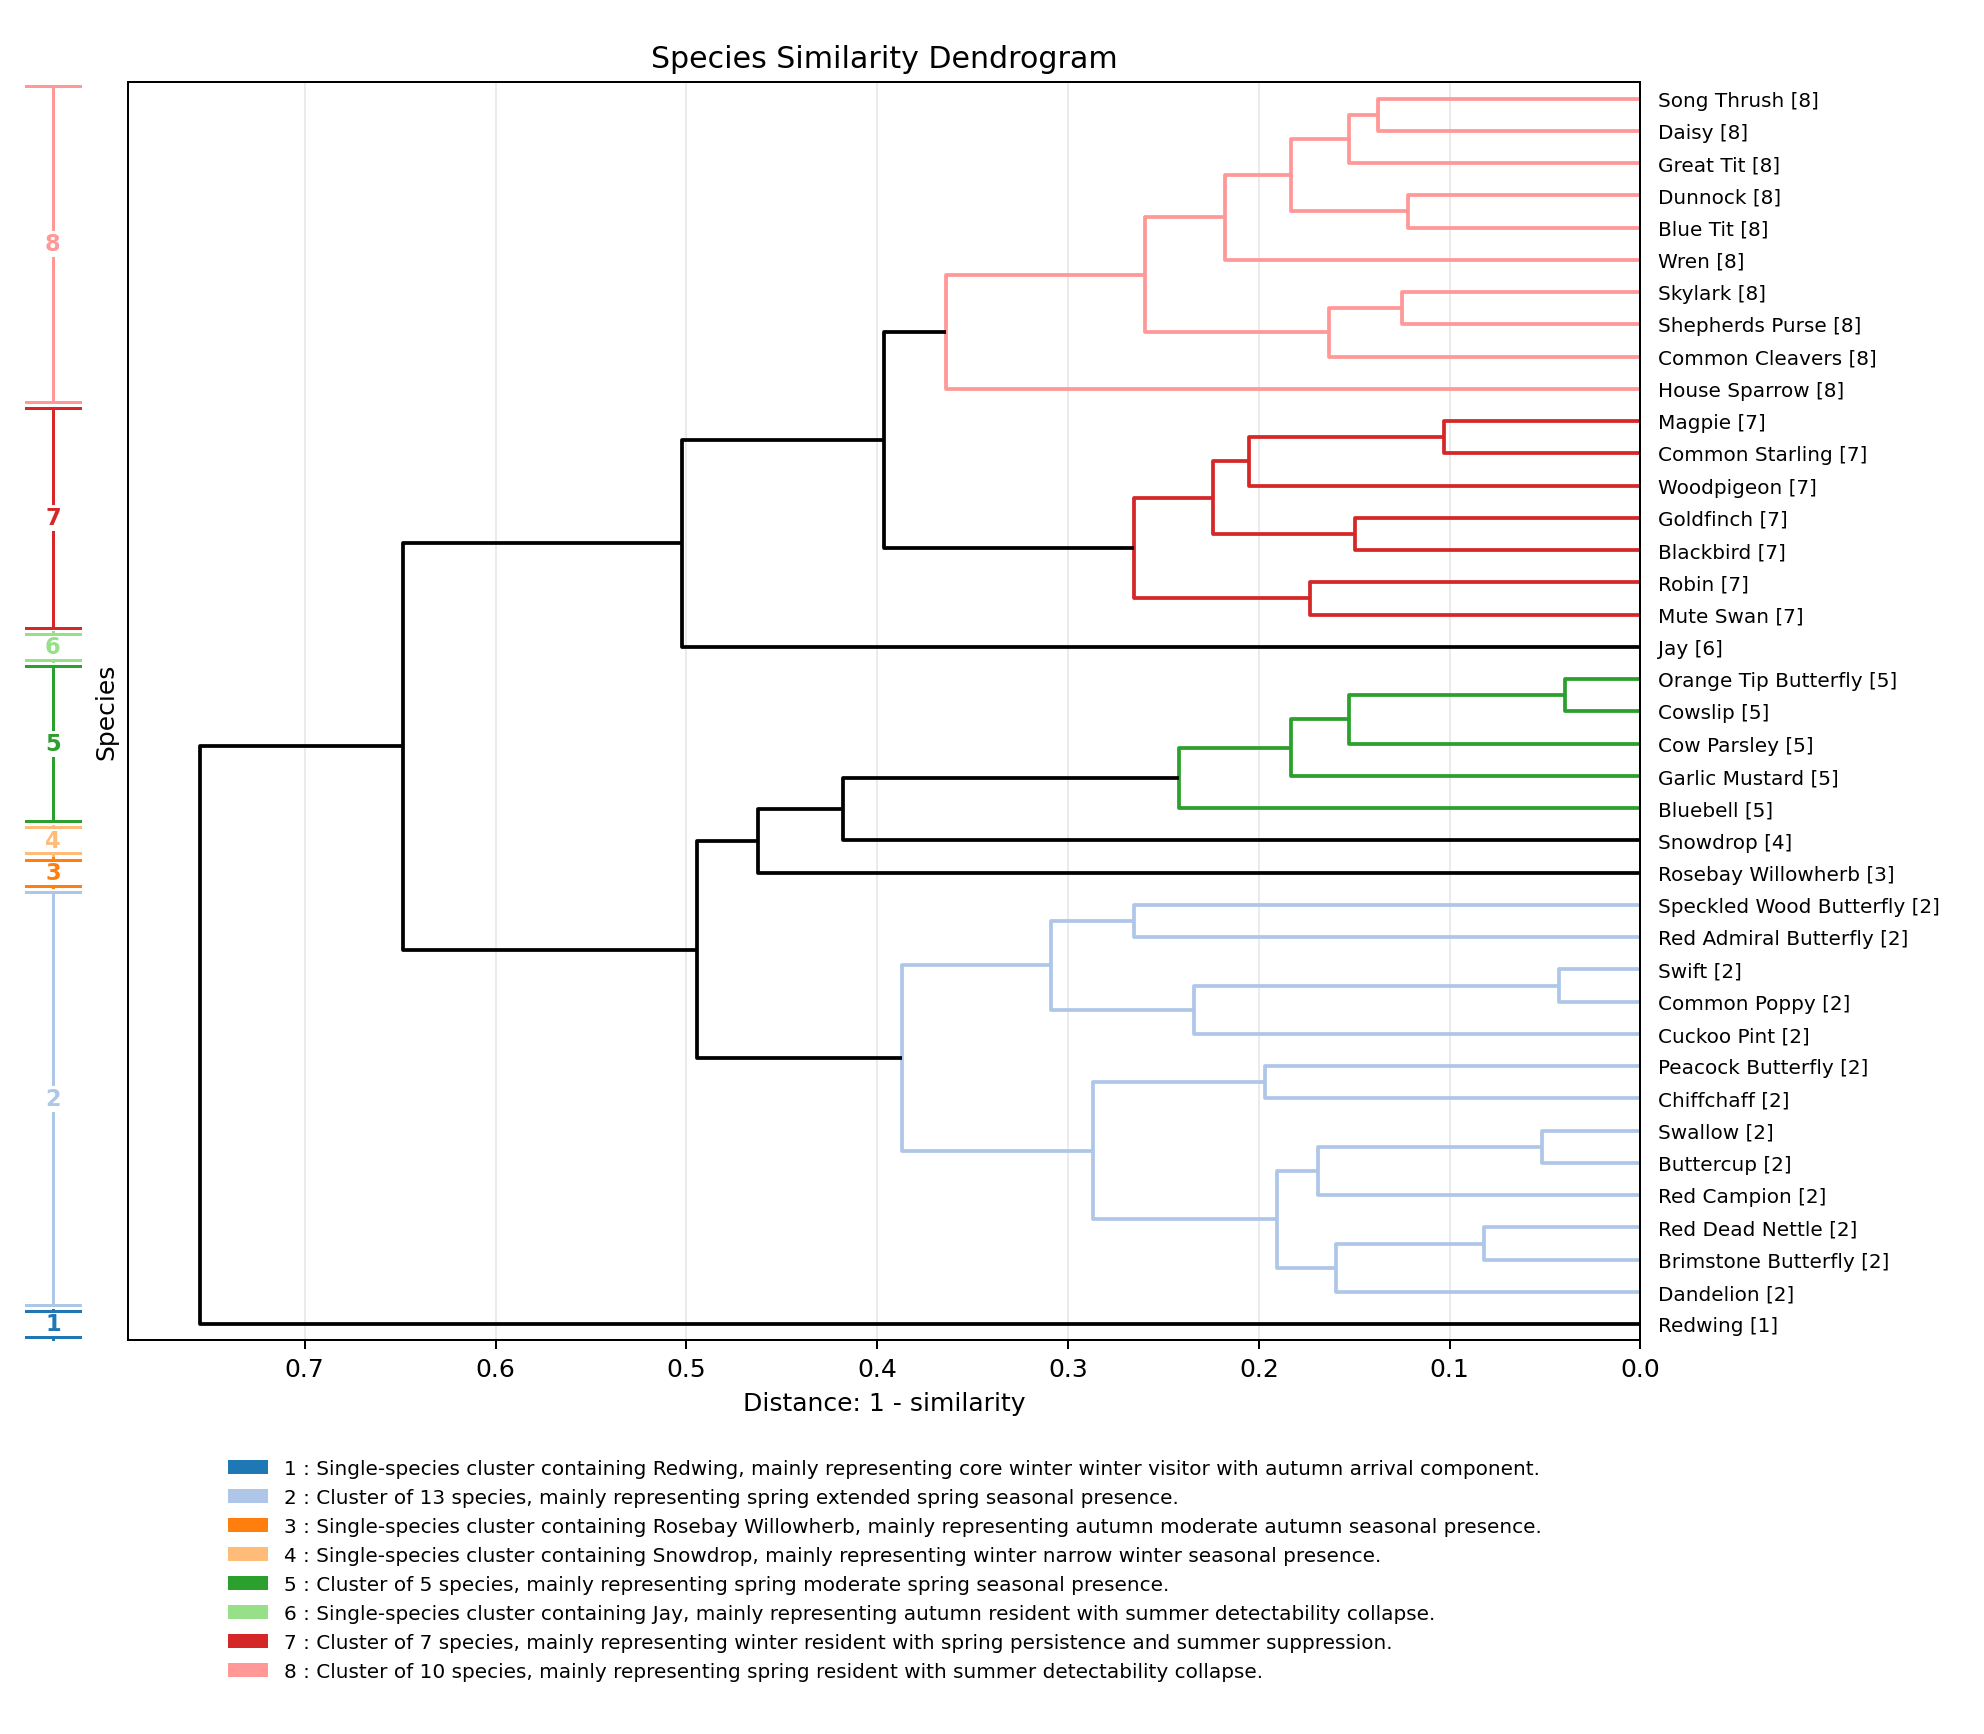
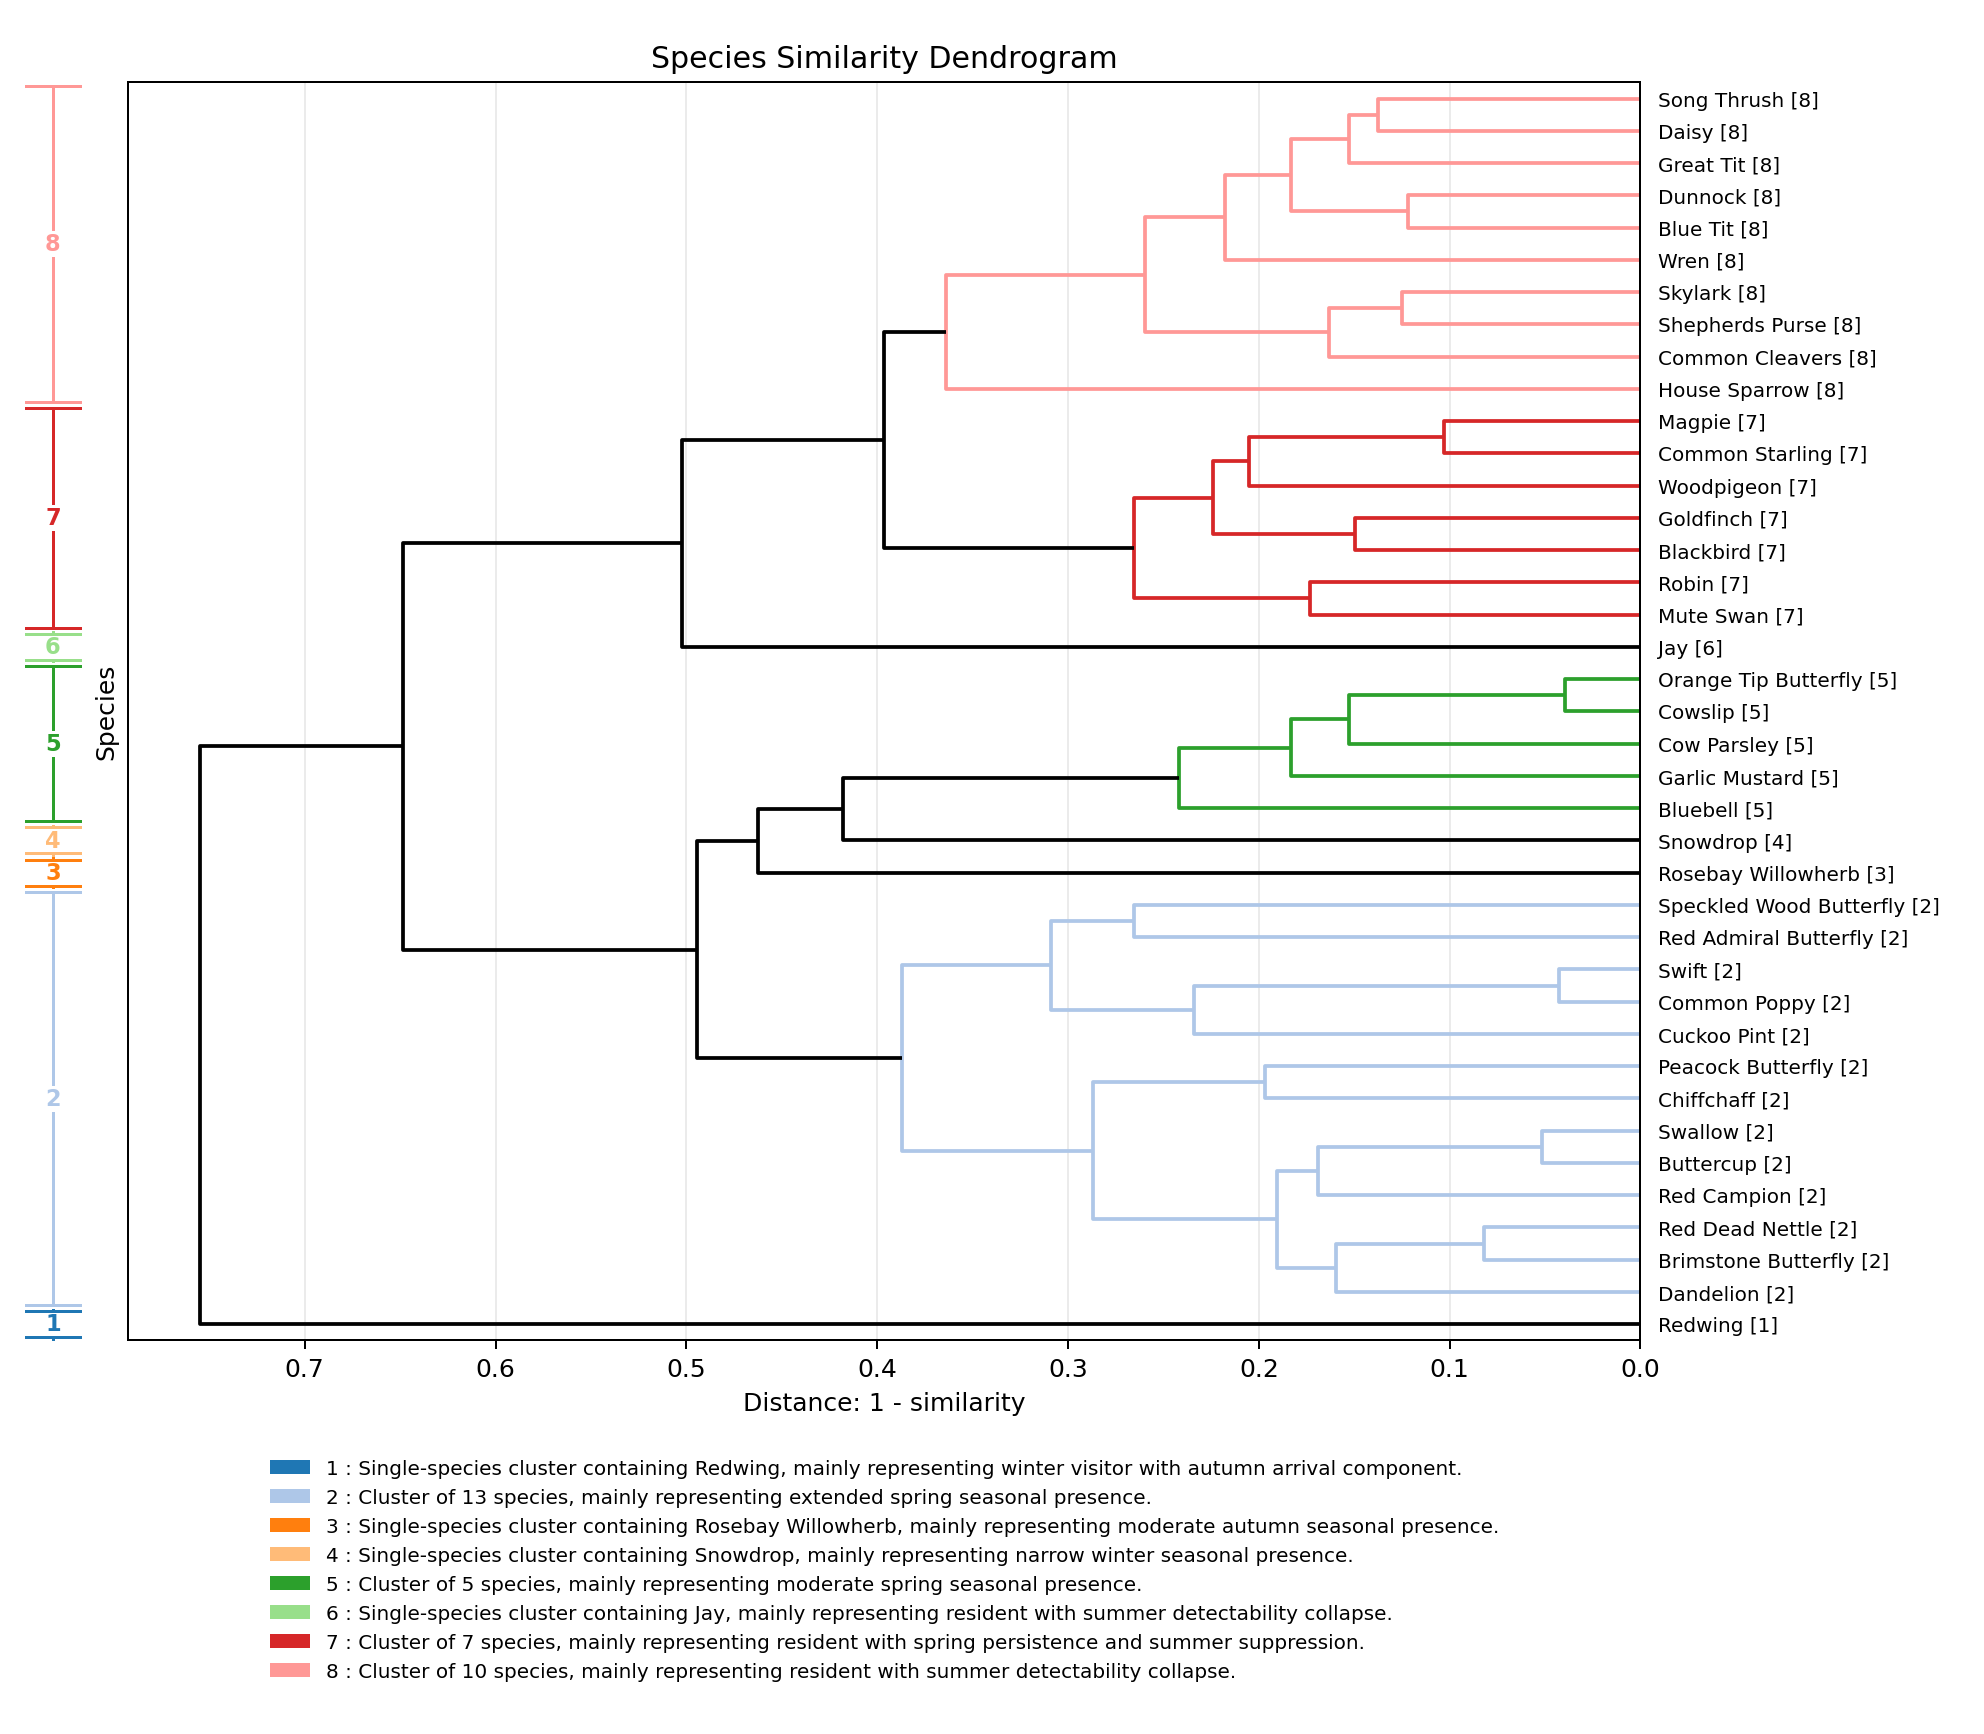
Labelling tweaks

Changed region(s): [[0.0938, 0.8408, 0.75, 0.9654]]

diff --git a/modelling/src/seasonal/similarity/dendrogram.py b/modelling/src/seasonal/similarity/dendrogram.py
@@ -1,6 +1,5 @@
 from pathlib import Path
 from typing import Any, Dict
-import re
 
 import numpy as np
 import matplotlib.pyplot as plt
@@ -8,18 +7,7 @@ from matplotlib.colors import to_hex
 from matplotlib.patches import Patch
 from scipy.cluster.hierarchy import dendrogram
 
-
-def _first_sentence(text: str) -> str:
-    """
-    Extract the first sentence, excluding trainling full-stop, from a cluster description
-
-    :param text: Full text
-    :return: First sentence of the text
-    """
-    if not text:
-        return ""
-    match = re.search(r"(?<=[.!?])\s+", text.strip())
-    return text.strip() if not match else text[: match.start()].strip()
+from seasonal.support.clustering import first_sentence
 
 
 def _get_cluster_colour(
@@ -228,7 +216,7 @@ def plot_species_cluster_dendrogram(
 
     # Get the descriptions for all the clusters
     cluster_descriptions = {
-        c["cluster_id"]: _first_sentence(c.get("description", ""))
+        c["cluster_id"]: first_sentence(c.get("description", ""))
         for c in cluster_data.get("clusters", [])
     }
 

diff --git a/modelling/src/seasonal/support/clustering.py b/modelling/src/seasonal/support/clustering.py
@@ -4,6 +4,7 @@ from __future__ import annotations
 from typing import Any, Dict, List, Sequence, Tuple
 
 import numpy as np
+import re
 from scipy.cluster.hierarchy import leaves_list, linkage
 from scipy.spatial.distance import squareform
 
@@ -131,3 +132,17 @@ def serialise_linkage_matrix(
         "matrix": scipy_rows,
         "merges": merges,
     }
+
+
+def first_sentence(text: str) -> str:
+    """
+    Extract the first sentence, excluding trainling full-stop, from a cluster description
+
+    :param text: Full text
+    :return: First sentence of the text
+    """
+    if not text:
+        return ""
+
+    match = re.search(r"(?<=[.!?])\s+", text.strip())
+    return text.strip() if not match else text[: match.start()].strip().removesuffix(".")

diff --git a/modelling/src/seasonal/calendar/activity.py b/modelling/src/seasonal/calendar/activity.py
@@ -83,14 +83,9 @@ def build_neighbourhood_monthly_activity(
         output_clusters.append(
             {
                 "cluster_id": cluster_id,
-                "calendar_label": cluster.get(
-                    "calendar_label",
-                    f"Cluster {cluster_id}",
-                ),
-                "n_species": cluster.get(
-                    "n_species",
-                    len(cluster.get("species", [])),
-                ),
+                "calendar_label": cluster.get("calendar_label", f"Cluster {cluster_id}"),
+                "description": cluster.get("description", f"Cluster {cluster_id}"),
+                "n_species": cluster.get("n_species", len(cluster.get("species", []))),
                 "species": cluster.get("species", []),
                 "monthly_activity": monthly_activity,
             }

diff --git a/modelling/src/seasonal/calendar/heatmap.py b/modelling/src/seasonal/calendar/heatmap.py
@@ -6,6 +6,7 @@ from typing import Any
 import matplotlib.pyplot as plt
 import numpy as np
 
+from seasonal.support.clustering import first_sentence
 
 MONTH_NAMES = ["Jan", "Feb", "Mar", "Apr", "May", "Jun",
                "Jul", "Aug", "Sep", "Oct", "Nov", "Dec"]
@@ -36,7 +37,6 @@ def plot_neighbourhood_calendar_heatmap(
 
     for cluster in clusters:
         cluster_id = cluster.get("cluster_id")
-        # labels.append(f"Cluster {cluster_id}")
         labels.append(cluster_id)
 
         month_values = [0.0] * 12
@@ -99,7 +99,8 @@ def plot_neighbourhood_calendar_heatmap(
 
     for cluster in clusters:
         cluster_id = cluster.get("cluster_id")
-        label = cluster.get("calendar_label", cluster_id)
+        # label = cluster.get("calendar_label", cluster_id)
+        label = first_sentence(cluster.get("description", str(cluster_id)))
         legend_lines.append(f"{cluster_id}: {label}")
 
     legend_text = "\n".join(legend_lines)

diff --git a/modelling/src/seasonal/similarity/clustering.py b/modelling/src/seasonal/similarity/clustering.py
@@ -420,7 +420,10 @@ def _cluster_opening_sentence(
 
     descriptors = []
     if timing:
-        descriptors.append(_humanise_token(timing))
+        # This results in a duplication of the season that looks odd
+        # descriptors.append(_humanise_token(timing))
+        pass
+
     if primary_class:
         descriptors.append(_humanise_token(primary_class))
     elif model_family: